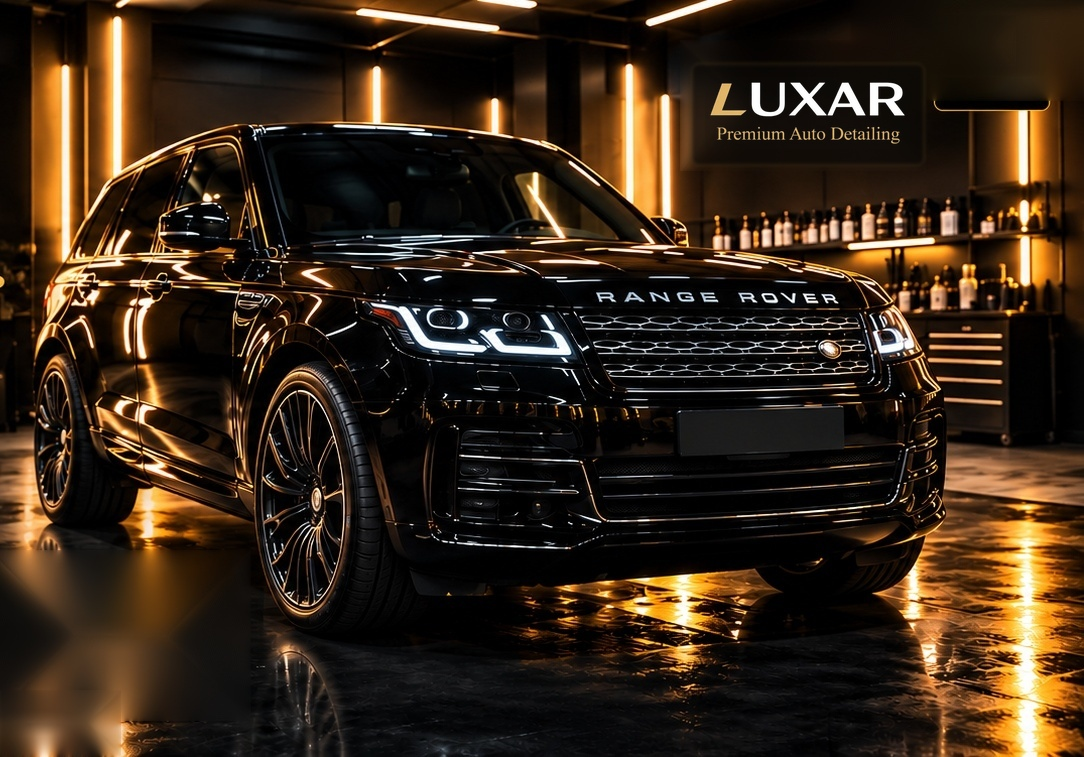
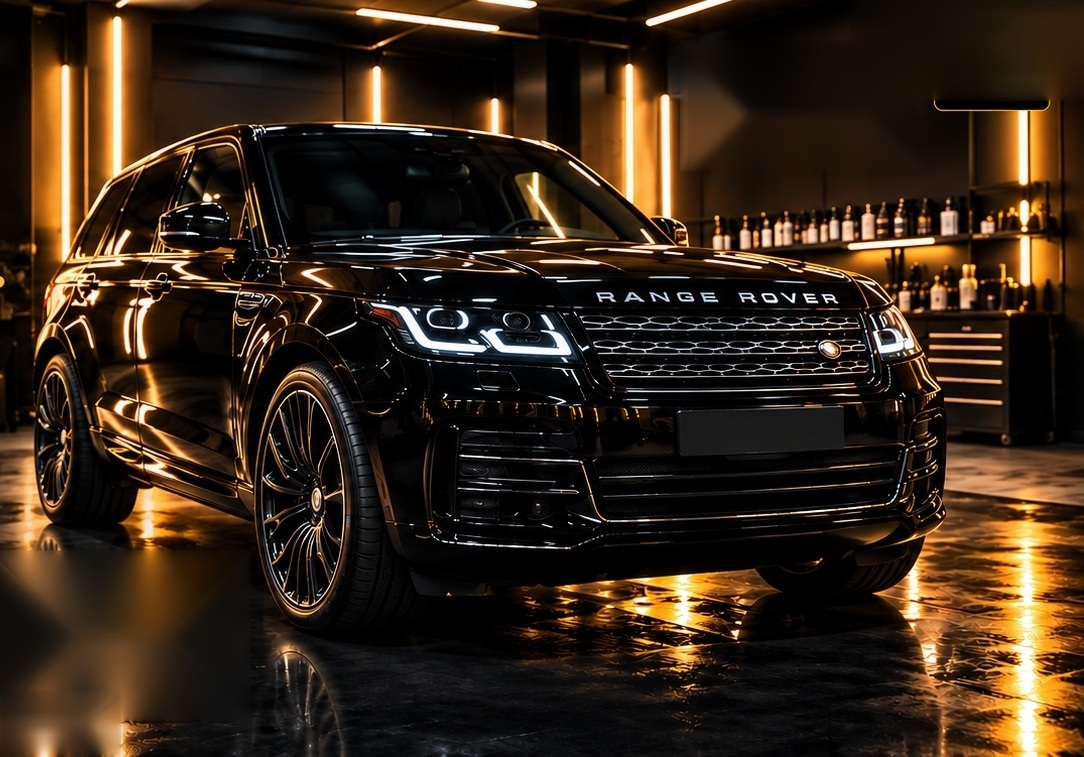
Add files via upload

Changed region(s): [[0.6393, 0.0911, 0.8524, 0.2127]]

diff --git a/prices.html b/prices.html
@@ -215,8 +215,74 @@ body.tint-modal-open{overflow:hidden}
 /* Full-bleed hero photograph, matching the approved wide hero composition */
 .hero-photo{left:0;right:0;width:100%;background-position:center 50%;}
 
-</style>
-<link rel="stylesheet" href="styles.css"></head><body>
+
+/* LUXAR FINAL LAYOUT FIX — overrides the legacy conflicting rules */
+.hero-photo{
+  left:0!important;right:0!important;width:100%!important;height:100%!important;
+  background-image:
+    linear-gradient(90deg,rgba(5,5,5,.25) 0%,transparent 36%,transparent 70%,rgba(5,5,5,.18) 100%),
+    radial-gradient(ellipse 22% 24% at 88% 13%,rgba(5,5,5,.98) 0%,rgba(5,5,5,.86) 42%,rgba(5,5,5,.25) 76%,transparent 100%),
+    linear-gradient(0deg,rgba(0,0,0,.35),transparent 32%),
+    url("assets/luxar-showroom-background.jpg")!important;
+  background-size:cover!important;background-position:center 47%!important;
+}
+.hero-wall-logo{display:none!important}
+.hero-content{max-width:650px;position:relative;z-index:1}
+.hero h1{max-width:680px;overflow-wrap:normal;word-break:normal}
+@media(max-width:820px){
+ .hero{height:auto;min-height:760px;align-items:flex-end}
+ .hero-photo{background-size:auto 560px!important;background-repeat:no-repeat!important;background-position:center top!important}
+ .hero-content{width:100%;max-width:100%;padding-top:360px}
+}
+@media(max-width:520px){
+ .hero{min-height:780px}
+ .hero-photo{background-size:auto 470px!important}
+ .hero-content{padding-top:330px}
+}
+/* A wide, orderly price layout — no narrow nested catalogue */
+.prices-page-main{max-width:1280px;margin-left:auto;margin-right:auto}
+.price-layout{display:grid!important;grid-template-columns:minmax(0,1fr)!important;gap:22px!important}
+.price-side-grid{display:grid!important;grid-template-columns:repeat(2,minmax(0,1fr))!important;gap:18px!important}
+.tint-card{grid-column:1/-1!important;min-width:0;padding:28px!important}
+.tint-grid{display:grid!important;grid-template-columns:repeat(3,minmax(0,1fr))!important;gap:14px!important}
+.tint-item{
+ display:grid!important;grid-template-columns:104px minmax(0,1fr) auto!important;
+ align-items:center!important;justify-items:stretch!important;gap:15px!important;
+ width:100%!important;min-width:0!important;min-height:104px!important;
+ padding:16px 18px!important;border:1px solid rgba(218,174,105,.35)!important;
+ border-radius:12px!important;background:linear-gradient(145deg,#24221e,#111)!important;
+ color:#f7f1e6!important;text-align:left!important;white-space:normal!important;
+ word-break:normal!important;overflow-wrap:normal!important;
+}
+.tint-item:hover{border-color:#d9ad66!important;background:linear-gradient(145deg,#30291f,#151310)!important;transform:translateY(-2px)}
+.tint-item .car-mark{width:104px!important;height:66px!important;min-width:104px!important;flex:0 0 104px!important;display:flex!important;align-items:center!important;justify-content:center!important}
+.tint-item .car-mark svg{width:100px!important;height:62px!important;max-width:100%!important;overflow:visible!important}
+.tint-item-copy{display:flex!important;flex-direction:column!important;align-items:flex-start!important;justify-content:center!important;min-width:0!important;gap:5px!important;white-space:normal!important;writing-mode:horizontal-tb!important}
+.tint-item-copy b{display:block!important;font-size:16px!important;line-height:1.25!important;white-space:normal!important;word-break:normal!important;overflow-wrap:break-word!important}
+.tint-item-copy small{display:block!important;color:#bcb4a6!important;font-size:12px!important;line-height:1.35!important;white-space:normal!important;word-break:normal!important}
+.tint-item>strong{display:block!important;justify-self:end!important;align-self:center!important;white-space:nowrap!important;font-size:15px!important;line-height:1.2!important;color:#f4d28e!important}
+.tint-item>strong span{display:inline!important}
+.tint-item:focus-visible{outline:2px solid #efbd70!important;outline-offset:3px}
+.tint-item .mini-car>path:first-child{fill:#c99a50;stroke:#f0ca83;stroke-width:1.2;stroke-linejoin:round}
+.tint-item .mini-car>path:nth-child(2){fill:#171b20;stroke:#f2d39c;stroke-width:1.2;stroke-linejoin:round}
+.tint-item .mini-wheel{fill:#090909;stroke:#d9ad66;stroke-width:2}
+@media(max-width:1000px){
+ .tint-grid{grid-template-columns:repeat(2,minmax(0,1fr))!important}
+ .tint-item{grid-template-columns:86px minmax(0,1fr) auto!important;gap:12px!important;padding:14px!important}
+ .tint-item .car-mark{width:86px!important;min-width:86px!important;flex-basis:86px!important}
+ .tint-item .car-mark svg{width:84px!important}
+}
+@media(max-width:640px){
+ .price-side-grid{grid-template-columns:1fr!important}
+ .tint-grid{grid-template-columns:1fr!important}
+ .tint-item{grid-template-columns:82px minmax(0,1fr) auto!important;min-height:88px!important}
+ .tint-item .car-mark{width:82px!important;min-width:82px!important;flex-basis:82px!important}
+ .tint-item .car-mark svg{width:80px!important}
+ .tint-item-copy b{font-size:15px!important}
+ .tint-item>strong{font-size:14px!important}
+}
+
+</style></head><body>
 <header class="header">
  <a class="brand" href="index.html#home"><img src="assets/luxar-logo.jpg" alt="LUXAR Premium Auto Detailing"></a>
  <button class="menu-toggle" id="menuToggle" aria-label="Open navigation">☰</button>

diff --git a/index.html b/index.html
@@ -218,8 +218,74 @@ body.tint-modal-open{overflow:hidden}
 /* Full-bleed hero photograph, matching the approved wide hero composition */
 .hero-photo{left:0;right:0;width:100%;background-position:center 50%;}
 
+
+/* LUXAR FINAL LAYOUT FIX — overrides the legacy conflicting rules */
+.hero-photo{
+  left:0!important;right:0!important;width:100%!important;height:100%!important;
+  background-image:
+    linear-gradient(90deg,rgba(5,5,5,.25) 0%,transparent 36%,transparent 70%,rgba(5,5,5,.18) 100%),
+    radial-gradient(ellipse 22% 24% at 88% 13%,rgba(5,5,5,.98) 0%,rgba(5,5,5,.86) 42%,rgba(5,5,5,.25) 76%,transparent 100%),
+    linear-gradient(0deg,rgba(0,0,0,.35),transparent 32%),
+    url("assets/luxar-showroom-background.jpg")!important;
+  background-size:cover!important;background-position:center 47%!important;
+}
+.hero-wall-logo{display:none!important}
+.hero-content{max-width:650px;position:relative;z-index:1}
+.hero h1{max-width:680px;overflow-wrap:normal;word-break:normal}
+@media(max-width:820px){
+ .hero{height:auto;min-height:760px;align-items:flex-end}
+ .hero-photo{background-size:auto 560px!important;background-repeat:no-repeat!important;background-position:center top!important}
+ .hero-content{width:100%;max-width:100%;padding-top:360px}
+}
+@media(max-width:520px){
+ .hero{min-height:780px}
+ .hero-photo{background-size:auto 470px!important}
+ .hero-content{padding-top:330px}
+}
+/* A wide, orderly price layout — no narrow nested catalogue */
+.prices-page-main{max-width:1280px;margin-left:auto;margin-right:auto}
+.price-layout{display:grid!important;grid-template-columns:minmax(0,1fr)!important;gap:22px!important}
+.price-side-grid{display:grid!important;grid-template-columns:repeat(2,minmax(0,1fr))!important;gap:18px!important}
+.tint-card{grid-column:1/-1!important;min-width:0;padding:28px!important}
+.tint-grid{display:grid!important;grid-template-columns:repeat(3,minmax(0,1fr))!important;gap:14px!important}
+.tint-item{
+ display:grid!important;grid-template-columns:104px minmax(0,1fr) auto!important;
+ align-items:center!important;justify-items:stretch!important;gap:15px!important;
+ width:100%!important;min-width:0!important;min-height:104px!important;
+ padding:16px 18px!important;border:1px solid rgba(218,174,105,.35)!important;
+ border-radius:12px!important;background:linear-gradient(145deg,#24221e,#111)!important;
+ color:#f7f1e6!important;text-align:left!important;white-space:normal!important;
+ word-break:normal!important;overflow-wrap:normal!important;
+}
+.tint-item:hover{border-color:#d9ad66!important;background:linear-gradient(145deg,#30291f,#151310)!important;transform:translateY(-2px)}
+.tint-item .car-mark{width:104px!important;height:66px!important;min-width:104px!important;flex:0 0 104px!important;display:flex!important;align-items:center!important;justify-content:center!important}
+.tint-item .car-mark svg{width:100px!important;height:62px!important;max-width:100%!important;overflow:visible!important}
+.tint-item-copy{display:flex!important;flex-direction:column!important;align-items:flex-start!important;justify-content:center!important;min-width:0!important;gap:5px!important;white-space:normal!important;writing-mode:horizontal-tb!important}
+.tint-item-copy b{display:block!important;font-size:16px!important;line-height:1.25!important;white-space:normal!important;word-break:normal!important;overflow-wrap:break-word!important}
+.tint-item-copy small{display:block!important;color:#bcb4a6!important;font-size:12px!important;line-height:1.35!important;white-space:normal!important;word-break:normal!important}
+.tint-item>strong{display:block!important;justify-self:end!important;align-self:center!important;white-space:nowrap!important;font-size:15px!important;line-height:1.2!important;color:#f4d28e!important}
+.tint-item>strong span{display:inline!important}
+.tint-item:focus-visible{outline:2px solid #efbd70!important;outline-offset:3px}
+.tint-item .mini-car>path:first-child{fill:#c99a50;stroke:#f0ca83;stroke-width:1.2;stroke-linejoin:round}
+.tint-item .mini-car>path:nth-child(2){fill:#171b20;stroke:#f2d39c;stroke-width:1.2;stroke-linejoin:round}
+.tint-item .mini-wheel{fill:#090909;stroke:#d9ad66;stroke-width:2}
+@media(max-width:1000px){
+ .tint-grid{grid-template-columns:repeat(2,minmax(0,1fr))!important}
+ .tint-item{grid-template-columns:86px minmax(0,1fr) auto!important;gap:12px!important;padding:14px!important}
+ .tint-item .car-mark{width:86px!important;min-width:86px!important;flex-basis:86px!important}
+ .tint-item .car-mark svg{width:84px!important}
+}
+@media(max-width:640px){
+ .price-side-grid{grid-template-columns:1fr!important}
+ .tint-grid{grid-template-columns:1fr!important}
+ .tint-item{grid-template-columns:82px minmax(0,1fr) auto!important;min-height:88px!important}
+ .tint-item .car-mark{width:82px!important;min-width:82px!important;flex-basis:82px!important}
+ .tint-item .car-mark svg{width:80px!important}
+ .tint-item-copy b{font-size:15px!important}
+ .tint-item>strong{font-size:14px!important}
+}
+
 </style>
-<link rel="stylesheet" href="styles.css">
 </head>
 <body>
 <header class="header">
